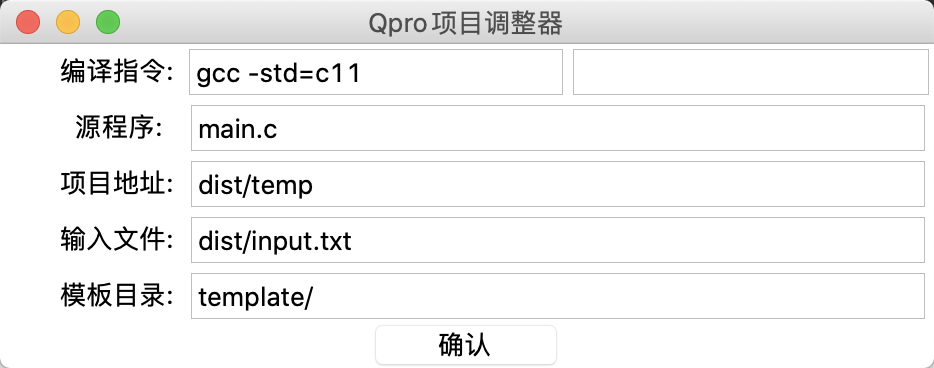
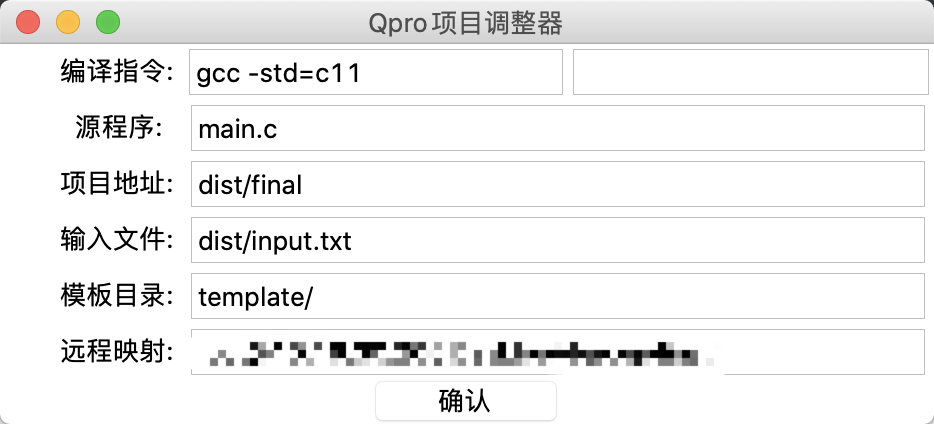
Qpro -scp

diff --git a/QuickProject/Qpro.py b/QuickProject/Qpro.py
@@ -30,16 +30,32 @@ int main(int argc, char **argv) {
 """
 
 
+def get_config():
+    config = {}
+    try:
+        with open('project_configure.csv', 'r') as f:
+            for row in f.readlines():
+                row = row.split(',')
+                config[row[0]] = [i.strip() for i in row[1:]]
+            for i in config:
+                if i != 'compile_tool':
+                    config[i] = config[i][0]
+    except IOError:
+        exit("No file named: project_configure.csv\n May you need run:\"Qpro -init\" first!")
+    return config
+
+
 def main():
     if '-h' in sys.argv:
         print('usage:\n'
-              '\t * [Qpro -init   ]: let dir be a Qpro project!\n'
-              '\t * [Qpro -h      ]: help\n'
-              '\t * [Qpro -update ]: update Qpro\n'
-              '\t * [Qpro -adjust ]: adjust configure\n'
-              '\t * [Qpro -c name ]: create a Qpro project\n'
-              '\t * [tmpm *       ]: manage your template\n'
-              '\t * [run *        ]: run your Qpro project\n'
+              '\t * [Qpro -init    ]: let dir be a Qpro project!\n'
+              '\t * [Qpro -h       ]: help\n'
+              '\t * [Qpro -update  ]: update Qpro\n'
+              '\t * [Qpro -adjust  ]: adjust configure\n'
+              '\t * [Qpro -scp file]: post file to default server target'
+              '\t * [Qpro -c name  ]: create a Qpro project\n'
+              '\t * [tmpm *        ]: manage your template\n'
+              '\t * [run *         ]: run your Qpro project\n'
               '\t * [detector -[p/f][p/f] ]: run beat detector for two source files')
         exit(0)
     elif '-update' in sys.argv:
@@ -76,18 +92,20 @@ def main():
                 main_cont = f.read()
             with open(project_name + dir_char + 'template' + dir_char + 'main', 'w') as f:
                 f.write(main_cont)
-    elif '-adjust' in sys.argv:
-        config = {}
+    elif '-scp' in sys.argv:
         try:
-            with open('project_configure.csv', 'r') as f:
-                for row in f.readlines():
-                    row = row.split(',')
-                    config[row[0]] = [i.strip() for i in row[1:]]
-                for i in config:
-                    if i != 'compile_tool':
-                        config[i] = config[i][0]
-        except IOError:
-            exit("No file named: project_configure.csv\n May you need run:\"Qpro -init\" first!")
+            file = sys.argv[sys.argv.index('-scp')+1]
+        except IndexError:
+            exit('usage: Qpro -scp file')
+        else:
+            if not os.path.exists(file):
+                exit('No such file named: '+file)
+            if os.path.isdir(file):
+                exit('scp can only post file but not dictionary!')
+            config = get_config()
+            os.system('scp %s %s' % (file, config['server_target']+file))
+    elif '-adjust' in sys.argv:
+        config = get_config()
         import tkinter as tk
         win = tk.Tk()
         win.title('Qpro项目调整器')
@@ -96,7 +114,8 @@ def main():
             'compile_filename': '源程序:',
             'executable_filename': '项目地址:',
             'input_file': '输入文件:',
-            'template_root': '模板目录:'
+            'template_root': '模板目录:',
+            'server_target': '远程映射:'
         }
         all_dt = {}
         for i, v in enumerate(config):
@@ -131,8 +150,9 @@ def main():
                     else:
                         file.write('%s,%s\n' % (line, config[line]))
 
-        tk.Button(win, text='确认', command=deal_config, width=10).grid(row=5, column=0, columnspan=3)
+        tk.Button(win, text='确认', command=deal_config, width=10).grid(row=6, column=0, columnspan=3)
         tk.mainloop()
+
     elif '-init' not in sys.argv:
         exit('wrong usage! Run "Qpro -h" for help!')
     elif not os.path.exists('project_configure.csv'):
@@ -163,13 +183,17 @@ def main():
             source_file = 'main.c' + ('pp' if is_cpp else '')
         pro_root = dir_char.join(project_name.split(dir_char)[:-1])
         default_input = pro_root + dir_char + 'input.txt'
+        server_target = input('input [user@ip:dir_path] if you need scp:')
+        if server_target and not server_target.endswith('/') and not server_target.endswith(':'):
+            server_target += '/'
         print('adding project_configure')
         info = [
             ['compile_tool', 'g++ -std=c++11' if is_cpp else 'gcc -std=c11', ''],
             ['compile_filename', source_file],
             ['executable_filename', project_name],
             ['input_file', default_input],
-            ['template_root', 'template' + dir_char]
+            ['template_root', 'template' + dir_char],
+            ['server_target', server_target]
         ]
         with open('project_configure.csv', 'w') as f:
             for row in info:

diff --git a/build/lib/QuickProject/Qpro.py b/build/lib/QuickProject/Qpro.py
@@ -12,22 +12,20 @@ work_dir = os.getcwd()
 work_project = work_dir.split(dir_char)[-1]
 work_dir += dir_char
 
-cpp_template = """
-#include <iostream>
+cpp_template = """#include <iostream>
 using namespace std;
 
 int main(int argc, char **argv) {
 
-    return 0;    
+    return 0;
 }
 """
 
-c_template = """
-#include <stdio.h>
+c_template = """#include <stdio.h>
 
 int main(int argc, char **argv) {
 
-    return 0;    
+    return 0;
 }
 """
 
@@ -38,6 +36,7 @@ def main():
               '\t * [Qpro -init   ]: let dir be a Qpro project!\n'
               '\t * [Qpro -h      ]: help\n'
               '\t * [Qpro -update ]: update Qpro\n'
+              '\t * [Qpro -adjust ]: adjust configure\n'
               '\t * [Qpro -c name ]: create a Qpro project\n'
               '\t * [tmpm *       ]: manage your template\n'
               '\t * [run *        ]: run your Qpro project\n'
@@ -77,6 +76,63 @@ def main():
                 main_cont = f.read()
             with open(project_name + dir_char + 'template' + dir_char + 'main', 'w') as f:
                 f.write(main_cont)
+    elif '-adjust' in sys.argv:
+        config = {}
+        try:
+            with open('project_configure.csv', 'r') as f:
+                for row in f.readlines():
+                    row = row.split(',')
+                    config[row[0]] = [i.strip() for i in row[1:]]
+                for i in config:
+                    if i != 'compile_tool':
+                        config[i] = config[i][0]
+        except IOError:
+            exit("No file named: project_configure.csv\n May you need run:\"Qpro -init\" first!")
+        import tkinter as tk
+        win = tk.Tk()
+        win.title('Qpro项目调整器')
+        key_to_name = {
+            'compile_tool': '编译指令:',
+            'compile_filename': '源程序:',
+            'executable_filename': '项目地址:',
+            'input_file': '输入文件:',
+            'template_root': '模板目录:'
+        }
+        all_dt = {}
+        for i, v in enumerate(config):
+            tk.Label(win, text='%12s' % key_to_name[v]).grid(row=i, column=0)
+            if v == 'compile_tool':
+                stringvar1 = tk.Variable()
+                stringvar1.set(config[v][0])
+                stringvar2 = tk.Variable()
+                stringvar2.set(config[v][1])
+                tk.Entry(win, textvariable=stringvar1, width=20).grid(row=i, column=1)
+                tk.Entry(win, textvariable=stringvar2, width=19).grid(row=i, column=2)
+                all_dt[v] = [stringvar1, stringvar2]
+            else:
+                stringvar1 = tk.Variable()
+                stringvar1.set(config[v])
+                tk.Entry(win, textvariable=stringvar1, width=40).grid(row=i, column=1, columnspan=2)
+                all_dt[v] = stringvar1
+
+        def deal_config():
+            for i in all_dt:
+                if i == 'compile_tool':
+                    config[i] = [all_dt[i][0].get(), all_dt[i][1].get()]
+                else:
+                    config[i] = all_dt[i].get()
+            if not config['template_root'].endswith(dir_char):
+                config['template_root'] += dir_char
+            win.destroy()
+            with open('project_configure.csv', 'w') as file:
+                for line in config:
+                    if line == 'compile_tool':
+                        file.write('%s,%s\n' % (line, ','.join(config[line])))
+                    else:
+                        file.write('%s,%s\n' % (line, config[line]))
+
+        tk.Button(win, text='确认', command=deal_config, width=10).grid(row=5, column=0, columnspan=3)
+        tk.mainloop()
     elif '-init' not in sys.argv:
         exit('wrong usage! Run "Qpro -h" for help!')
     elif not os.path.exists('project_configure.csv'):

diff --git a/build/lib/QuickProject/tmpm.py b/build/lib/QuickProject/tmpm.py
@@ -14,6 +14,8 @@ try:
         for i in config:
             if i != 'compile_tool':
                 config[i] = config[i][0]
+        if not config['template_root'].endswith(dir_char):
+            config['template_root'] += dir_char
 except IOError:
     exit("No file named: project_configure.csv\n May you need run:\"Qpro -init\" first!")
 is_cpp = config['compile_filename'].endswith('cpp')

diff --git a/build/lib/QuickProject/run.py b/build/lib/QuickProject/run.py
@@ -18,6 +18,8 @@ try:
         for i in config:
             if i != 'compile_tool':
                 config[i] = config[i][0]
+        if not config['template_root'].endswith(dir_char):
+            config['template_root'] += dir_char
 except IOError:
     exit("No file named: project_configure.csv\n May you need run:\"Qpro -init\" first!")
 argv = []

diff --git a/README.md b/README.md
@@ -1,7 +1,7 @@
 # QuickProject
 ## Project description
 
-[![](https://img.shields.io/badge/version-0.5.7-green)]() [![](https://img.shields.io/badge/Author-RhythmLian-blue)]()
+[![](https://img.shields.io/badge/version-0.5.8-green)]() [![](https://img.shields.io/badge/Author-RhythmLian-blue)]()
 
 ### 环境
 
@@ -35,6 +35,7 @@
 | `Qpro -h` | 查看帮助 |
 | `Qpro -update` | 更新Qpro |
 | `Qpro -adjust` | 修改配置表 |
+| `Qpro -scp file` |将file上传到默认服务器|
 | `Qpro -c project` | 创建一个Qpro项目 |
 | `tmpm *` | 调用[模板脚本](#模板脚本)，刷新项目中的默认源文件 |
 | `run *` | 使用[运行脚本](#运行脚本)运行你的项目 |
@@ -53,6 +54,7 @@
       | `executable_filename` | 编译出的可执行文件名 | 项目名 |
       | `input_file` | 默认的输入文件 | `./cmake-build-debug/input.txt`|
       | `template_root` | 默认的模板库根目录 | `template/` |
+      |`server_target`|默认的服务器映射位置|空/`user@ip:dir_path/`|
 
   - 运行`Qpro -adjust`修改配置表:
   ![GUI](https://github.com/Rhythmicc/QuickProject/blob/master/img/3.png?raw=true)
